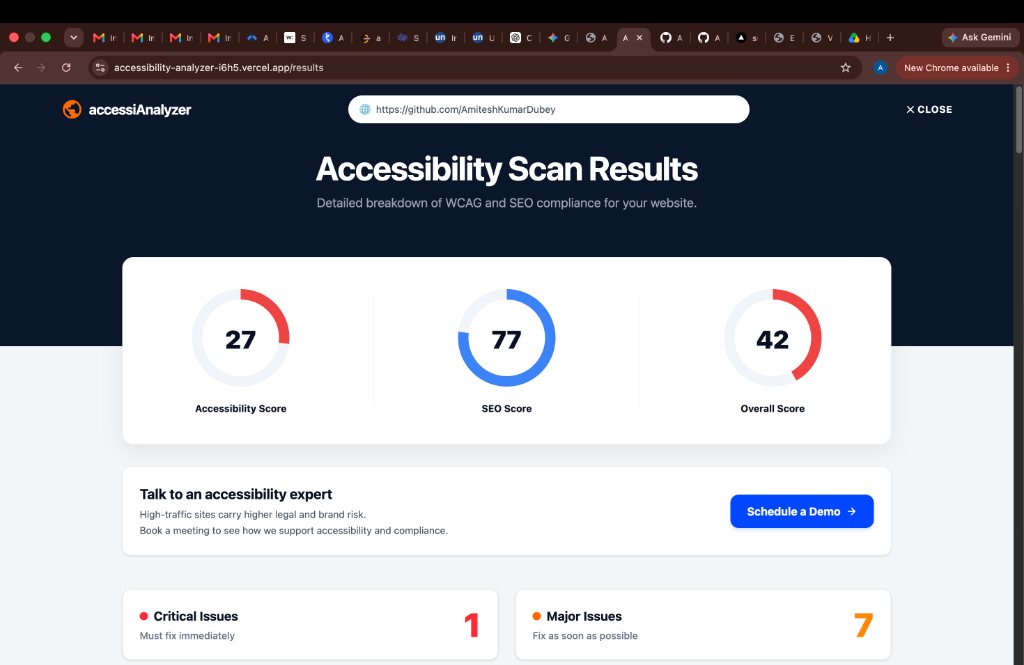
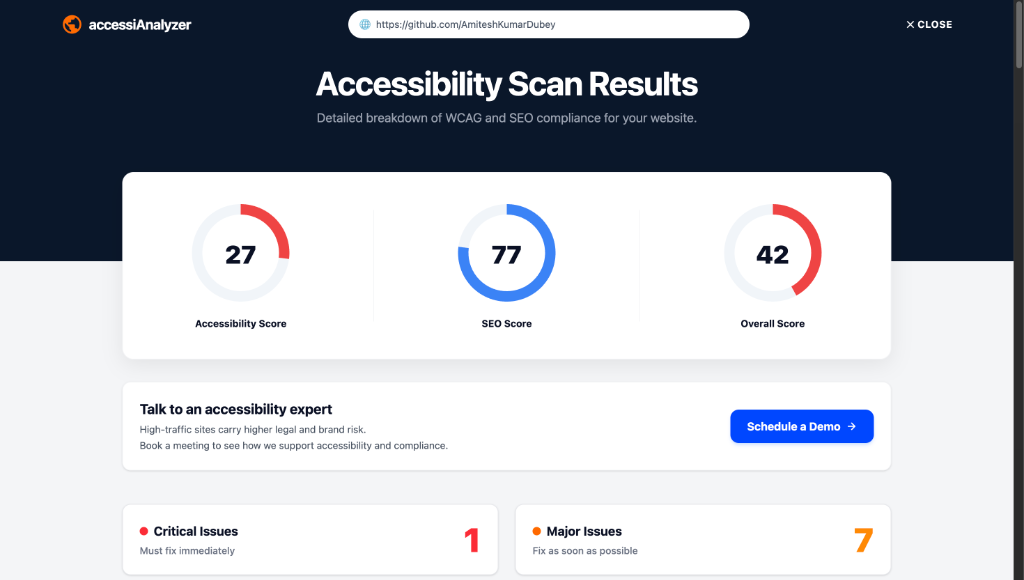
Update Northern Coalfields internship date badge to June 2025 - July 2025, remove profile photo from About section for a clean full-width layout, and update Accessibility and Water Management UI screenshots

diff --git a/index.html b/index.html
@@ -535,60 +535,52 @@
       <div class="container">
         <h2 class="section-title"><span>01.</span> About Me</h2>
         
-        <div class="grid lg:grid-cols-2 gap-12 items-start">
-          <div class="space-y-5 text-gray-300 text-base leading-relaxed">
-            <p>
-              I'm a B.Tech Computer Science student at Jaypee University of Engineering and Technology, Guna (CGPA: 6.9). Full-Stack Developer with hands-on internship experience in building scalable web applications and AI-powered solutions.
-            </p>
-            <p>
-              I specialize in backend engineering, system design, and modern web technologies. My primary focus lies in integrating intelligent automation—such as Retrieval-Augmented Generation (RAG) and LangChain—into real-world web platforms.
-            </p>
-            <p>
-              Currently looking for full-time Software Development Engineer (SDE) and Full-Stack roles to build impactful, high-performance software systems.
-            </p>
+        <div class="max-w-4xl space-y-6 text-gray-300 text-base leading-relaxed">
+          <p>
+            I'm a B.Tech Computer Science student at Jaypee University of Engineering and Technology, Guna (CGPA: 6.9). Full-Stack Developer with hands-on internship experience in building scalable web applications and AI-powered solutions.
+          </p>
+          <p>
+            I specialize in backend engineering, system design, and modern web technologies. My primary focus lies in integrating intelligent automation—such as Retrieval-Augmented Generation (RAG) and LangChain—into real-world web platforms.
+          </p>
+          <p>
+            Currently looking for full-time Software Development Engineer (SDE) and Full-Stack roles to build impactful, high-performance software systems.
+          </p>
 
-            <div class="pt-4">
-              <h3 class="text-sm font-mono text-teal-300 tracking-wider mb-4 uppercase">Core Capabilities &amp; Stack</h3>
-              <div class="grid grid-cols-2 gap-3 font-mono text-sm text-gray-300">
-                <div class="flex items-center space-x-2">
-                  <i class="fas fa-caret-right text-teal-400"></i>
-                  <span>JavaScript / C++ / Java</span>
-                </div>
-                <div class="flex items-center space-x-2">
-                  <i class="fas fa-caret-right text-teal-400"></i>
-                  <span>React.js / Next.js</span>
-                </div>
-                <div class="flex items-center space-x-2">
-                  <i class="fas fa-caret-right text-teal-400"></i>
-                  <span>Node.js / Express.js</span>
-                </div>
-                <div class="flex items-center space-x-2">
-                  <i class="fas fa-caret-right text-teal-400"></i>
-                  <span>REST APIs &amp; System Design</span>
-                </div>
-                <div class="flex items-center space-x-2">
-                  <i class="fas fa-caret-right text-teal-400"></i>
-                  <span>RAG Architecture &amp; LangChain</span>
-                </div>
-                <div class="flex items-center space-x-2">
-                  <i class="fas fa-caret-right text-teal-400"></i>
-                  <span>OpenAI API &amp; ChromaDB</span>
-                </div>
-                <div class="flex items-center space-x-2">
-                  <i class="fas fa-caret-right text-teal-400"></i>
-                  <span>MongoDB / MySQL</span>
-                </div>
-                <div class="flex items-center space-x-2">
-                  <i class="fas fa-caret-right text-teal-400"></i>
-                  <span>Git &amp; Postman</span>
-                </div>
+          <div class="pt-4">
+            <h3 class="text-sm font-mono text-teal-300 tracking-wider mb-4 uppercase">Core Capabilities &amp; Stack</h3>
+            <div class="grid grid-cols-2 sm:grid-cols-4 gap-4 font-mono text-sm text-gray-300">
+              <div class="flex items-center space-x-2">
+                <i class="fas fa-caret-right text-teal-400"></i>
+                <span>JavaScript / C++ / Java</span>
               </div>
-            </div>
-          </div>
-
-          <div class="relative">
-            <div class="card-dark p-2 overflow-hidden shadow-2xl">
-              <img src="images/user_photo.png" alt="Amitesh Kumar Dubey" class="w-full rounded-lg object-cover h-[380px] object-top" />
+              <div class="flex items-center space-x-2">
+                <i class="fas fa-caret-right text-teal-400"></i>
+                <span>React.js / Next.js</span>
+              </div>
+              <div class="flex items-center space-x-2">
+                <i class="fas fa-caret-right text-teal-400"></i>
+                <span>Node.js / Express.js</span>
+              </div>
+              <div class="flex items-center space-x-2">
+                <i class="fas fa-caret-right text-teal-400"></i>
+                <span>REST APIs &amp; System Design</span>
+              </div>
+              <div class="flex items-center space-x-2">
+                <i class="fas fa-caret-right text-teal-400"></i>
+                <span>RAG Architecture &amp; LangChain</span>
+              </div>
+              <div class="flex items-center space-x-2">
+                <i class="fas fa-caret-right text-teal-400"></i>
+                <span>OpenAI API &amp; ChromaDB</span>
+              </div>
+              <div class="flex items-center space-x-2">
+                <i class="fas fa-caret-right text-teal-400"></i>
+                <span>MongoDB / MySQL</span>
+              </div>
+              <div class="flex items-center space-x-2">
+                <i class="fas fa-caret-right text-teal-400"></i>
+                <span>Git &amp; Postman</span>
+              </div>
             </div>
           </div>
         </div>
@@ -653,7 +645,7 @@
               </div>
               <div class="mt-2 md:mt-0">
                 <span class="px-4 py-1.5 bg-teal-950/80 text-teal-300 text-xs font-mono font-semibold rounded-full border border-teal-500/30">
-                  2024
+                  June 2025 – July 2025
                 </span>
               </div>
             </div>
